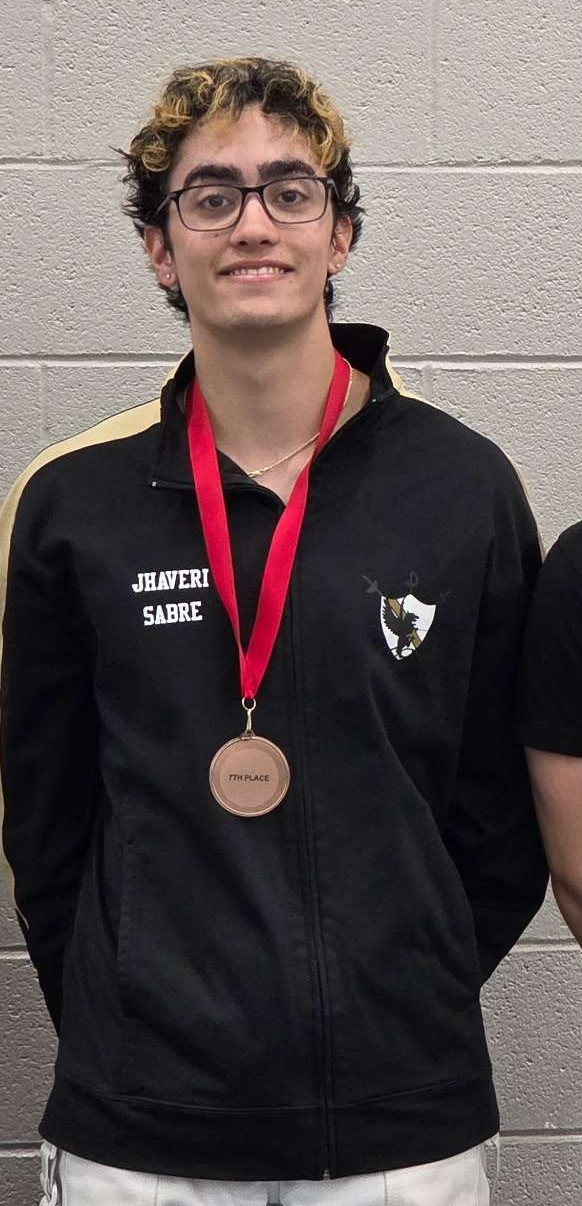
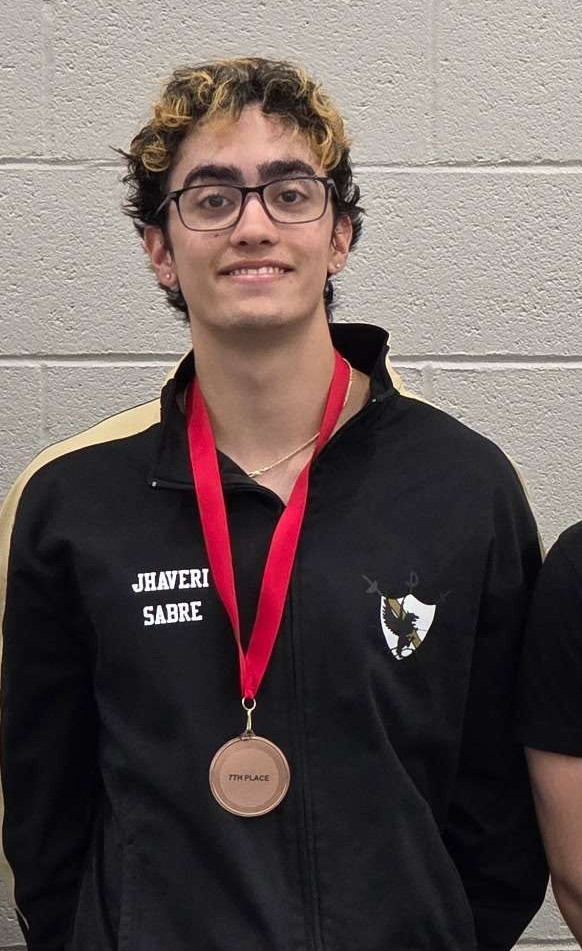
fix isabel and rj pics, britton weapon

diff --git a/src/pages/Officers.js b/src/pages/Officers.js
@@ -132,7 +132,7 @@ const Officers = () => (
         <Row xs={1} sm={1} md={2} lg={2} xl={3}>
           <Col>
             <Officercard name="Britton Rice" imagesrc={britton} position="Web/Media Coordinator" 
-              major="Anthropology" bladeimg={epeeicon} blade="Sabre" year="Sophomore" yearimg={sophomore}/>
+              major="Anthropology" bladeimg={epeeicon} blade="Epee" year="Sophomore" yearimg={sophomore}/>
           </Col>
           <Col>
             <Officercard name="Renee Tung" imagesrc={renee} position="Web/Media Coordinator" 
